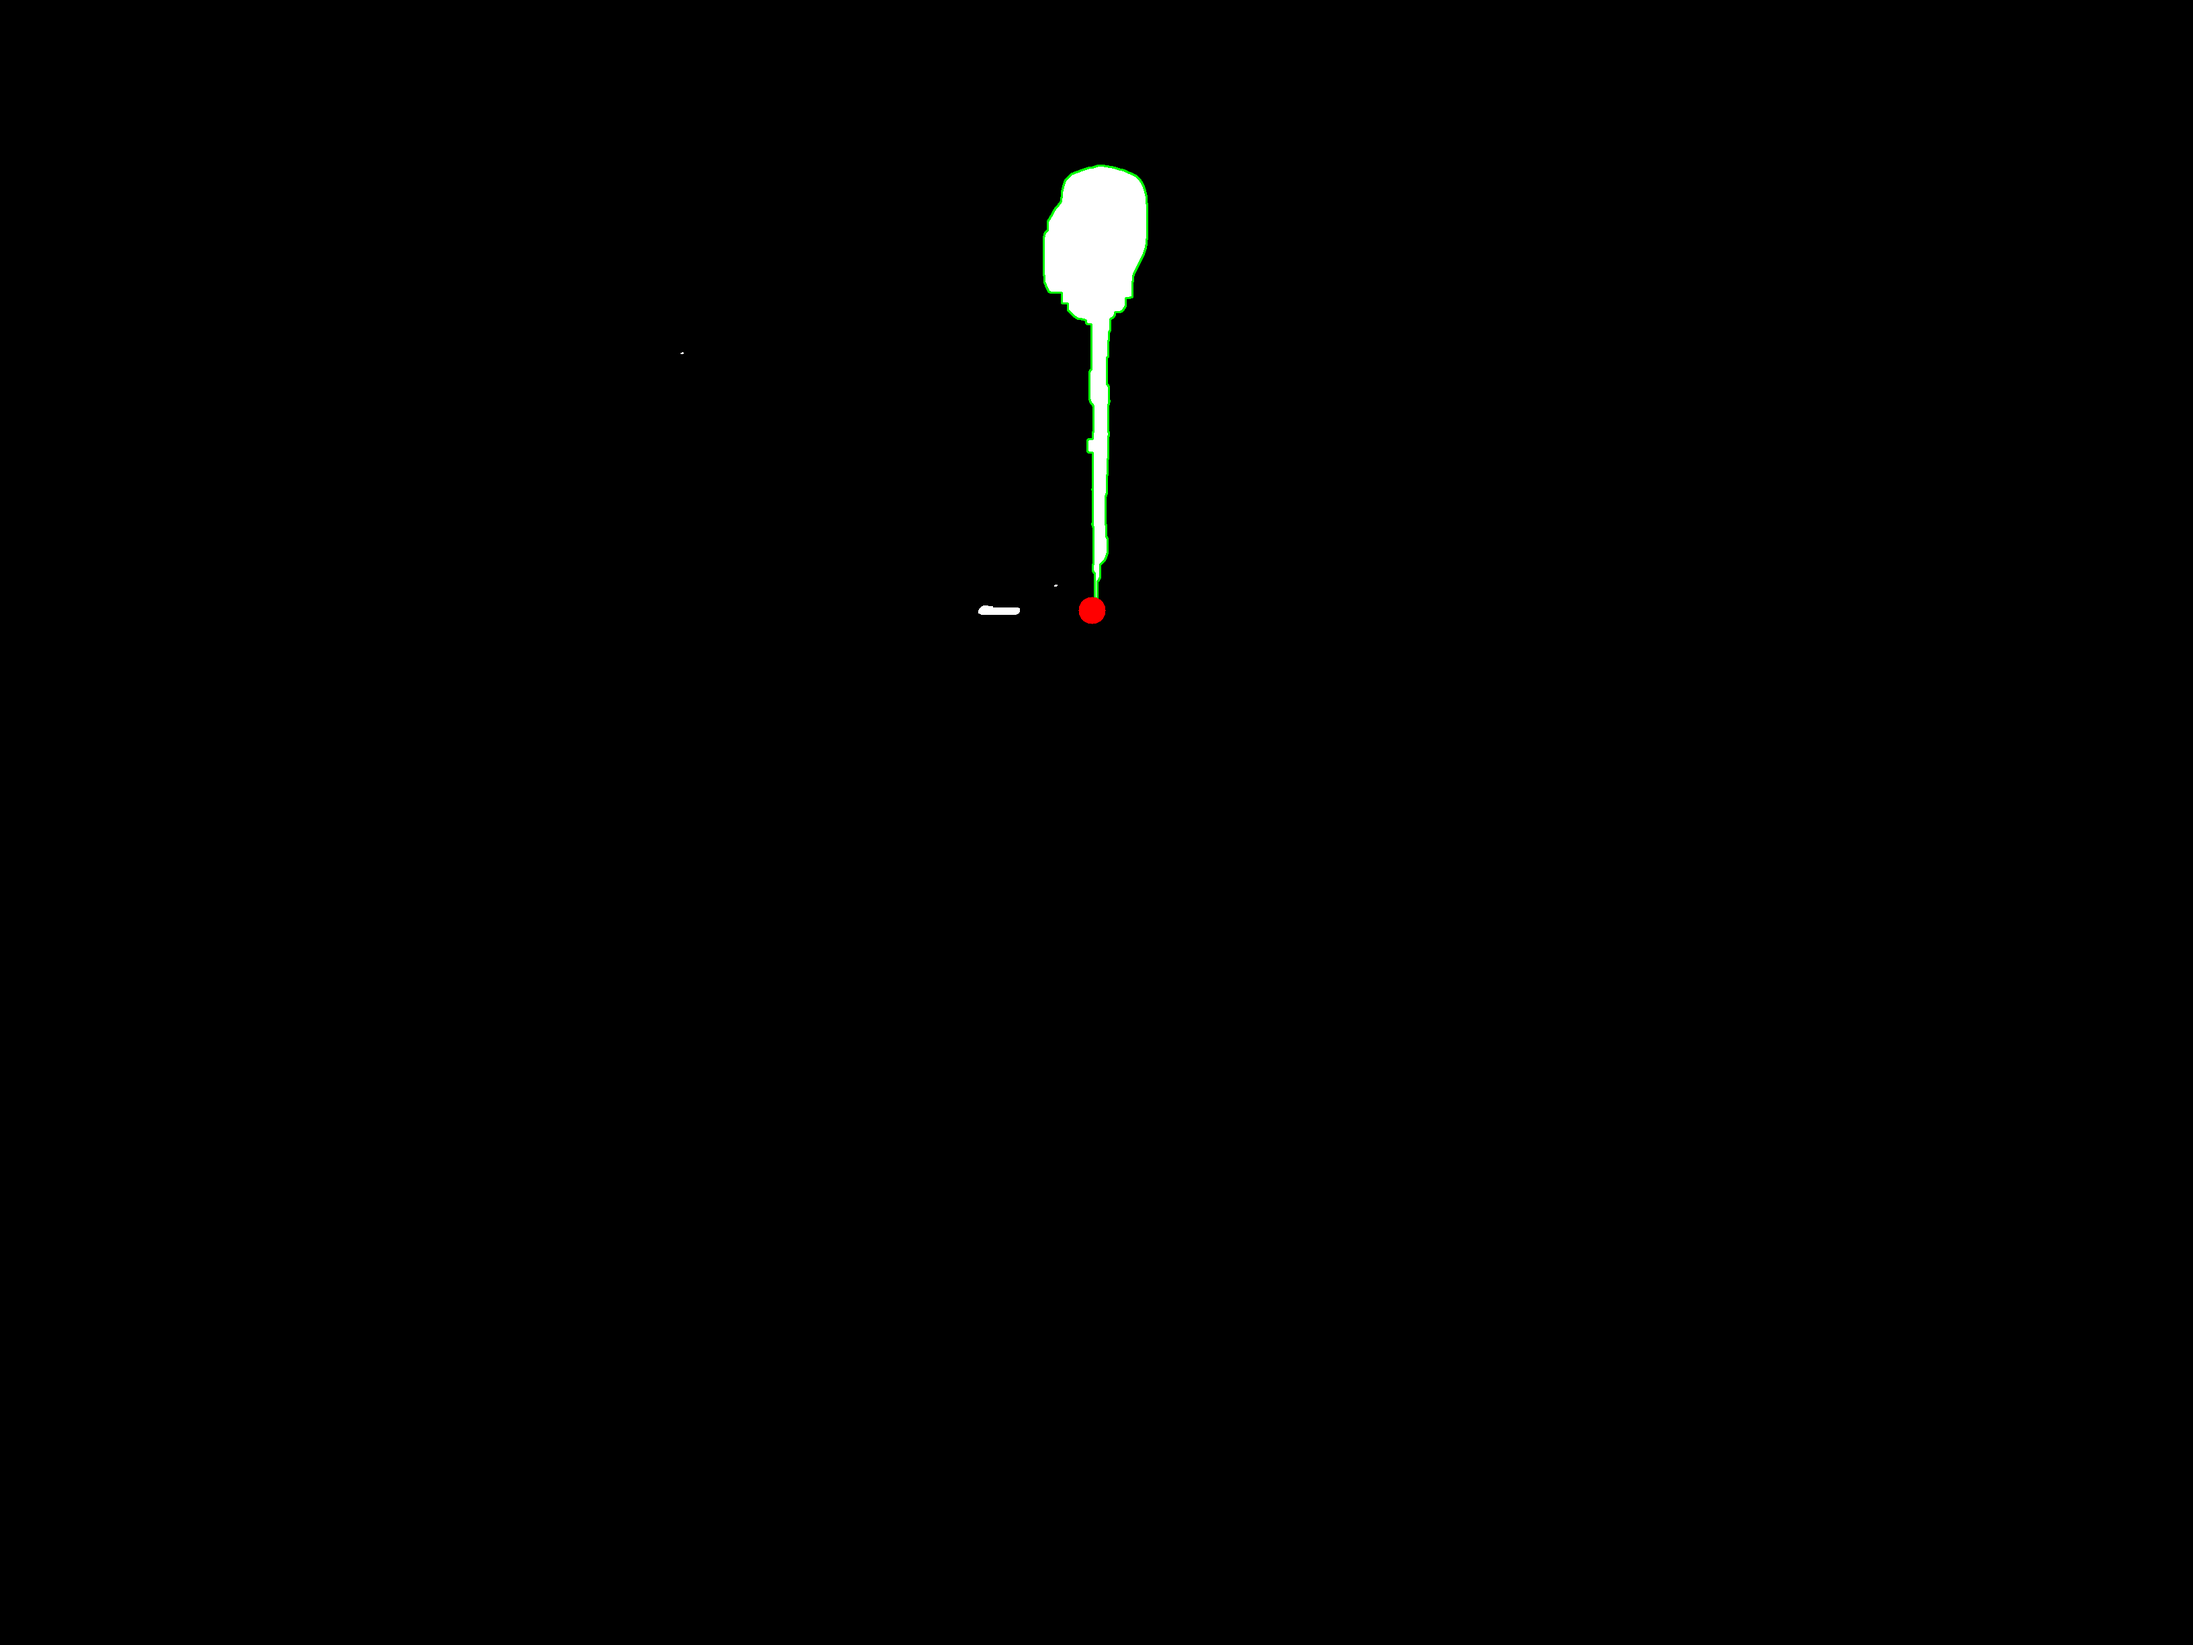
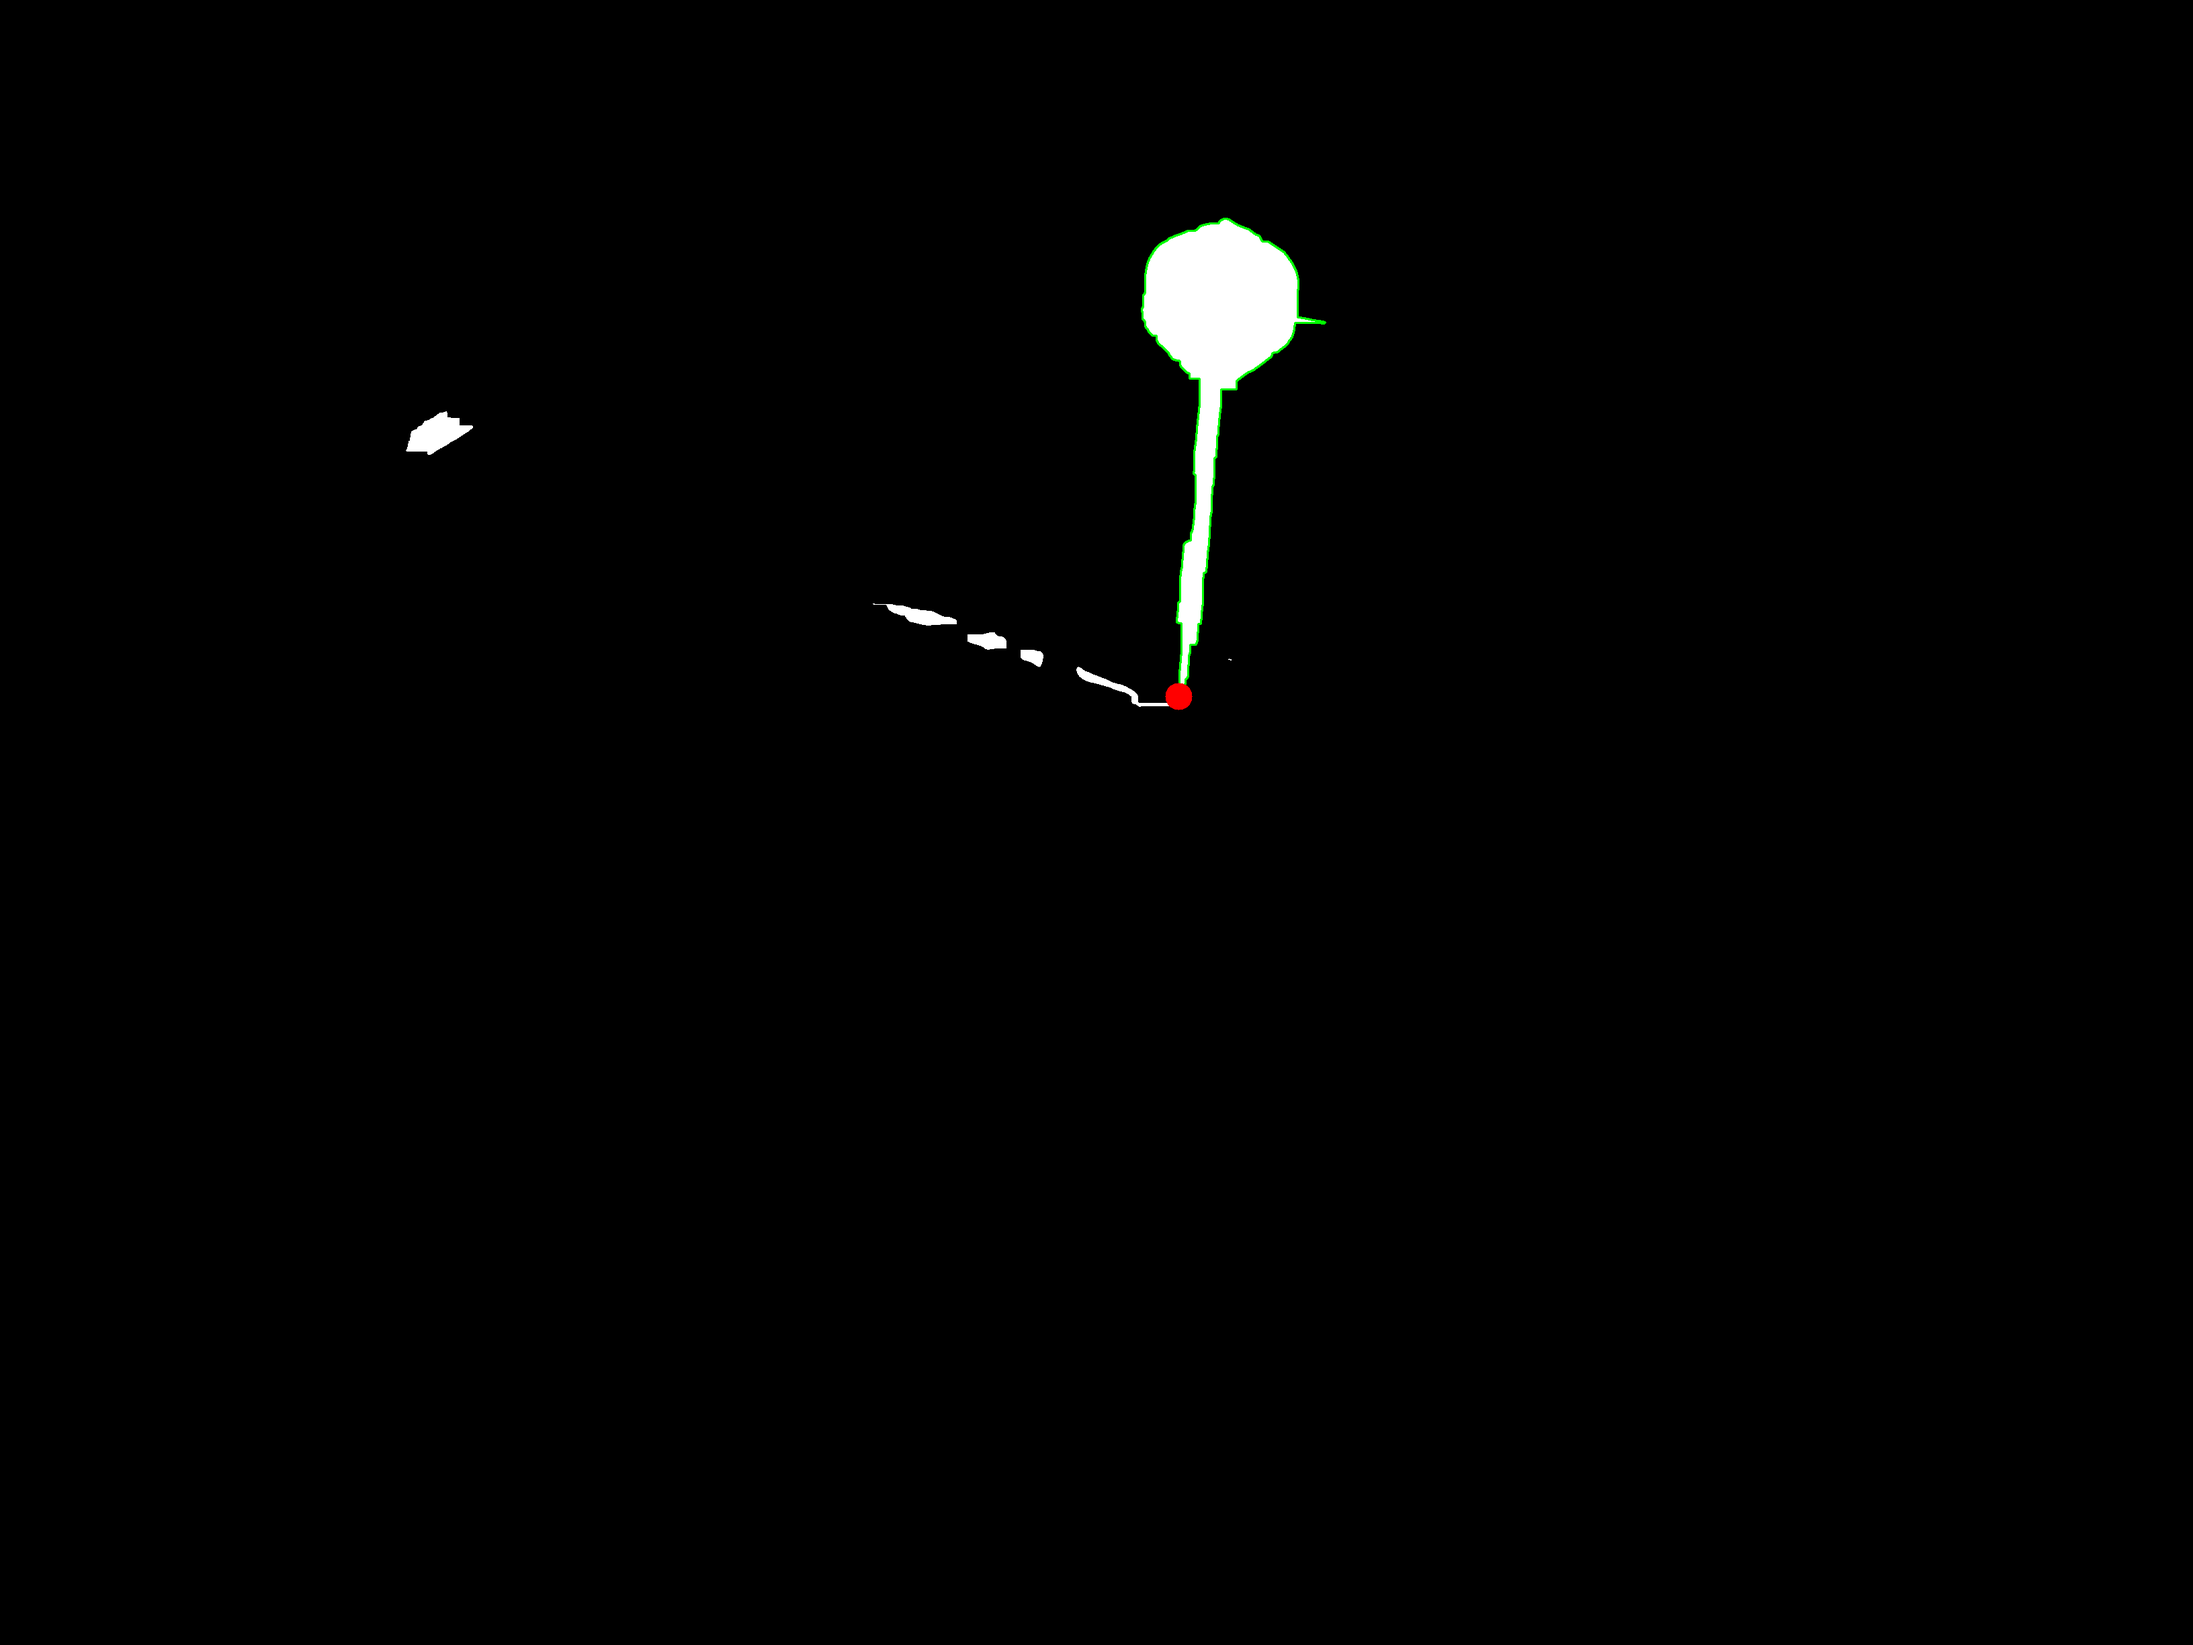
[add]10ケースの検証で正答率40%

diff --git a/src/main/run.py b/src/main/run.py
@@ -1,4 +1,5 @@
 # %%
+import os
 import cv2
 import numpy as np
 from matplotlib import pyplot as plt
@@ -6,148 +7,175 @@ from matplotlib import pyplot as plt
 from get_score import get_score
 from mark_extractor import extract_blue_marks  # ここで別ファイルの関数をインポート
 from diff_detector import detect_dart_diff  # 差分検出用
-from connect_parts import connect_parts # 膨張処理
+from connect_parts import connect_parts  # 膨張処理
 from detect_contour_bottom import detect_contour_bottom
 
-'''
+"""
+0.入力画像パスの設定
+"""
+INIT_PATH = "./img/input/init/init.png"
+DART_PATH = "./img/input/darts/t13.png"
+OUTPUT_DIR = "./img/output/t13/"
+
+"""
 1.セットアップ処理
 4点のマークから射影変換行列を取得する
-'''
+"""
 # 画像の読み込み
-image_path = "./img/input/init/marktuki.png"  # 読み込むPNG画像のパス
+image_path = INIT_PATH
 init_image = cv2.imread(image_path)
 
-# 青いマークの座標を取得（上右下左の順)
-sorted_marks = extract_blue_marks(image_path)  # 別ファイルの関数を使って座標を取得
-# 変換後の座標（上右下左に対応）
+# 青いマークの座標を取得（上右下左の順)※blue_extracted_imageはデバッグ用
+sorted_marks, blue_extracted_image = extract_blue_marks(image_path)
+
+# 変換後の座標（上右下左の順）
 output_points = np.array([[250, 0], [500, 250], [250, 500], [0, 250]], dtype="float32")
 
 # 射影変換行列を取得
-matrix = cv2.getPerspectiveTransform(np.array(sorted_marks, dtype="float32"), output_points)
+matrix = cv2.getPerspectiveTransform(
+    np.array(sorted_marks, dtype="float32"), output_points
+)
 
 # 射影変換を適用して、500x500の画像に変換
 output_size = (500, 500)
 warped_image = cv2.warpPerspective(init_image, matrix, output_size)
 
-'''
-1の検証コード
-'''
-# 結果の保存
-output_path = "./img/output/warped_image.png"
-cv2.imwrite(output_path, warped_image)
+# warped_imageのコピーを作成して、直接更新しないようにする
+warped_image_copy = warped_image.copy()
 
-# 結果の表示
-plt.figure(figsize=(6, 6))
-plt.imshow(cv2.cvtColor(warped_image, cv2.COLOR_BGR2RGB))
-plt.title("Warped Image (500x500)")
-plt.axis("off")
-plt.show()
-'''
-1の検証コード 終わり
-'''
-
-'''
+"""
 2.ダーツ検出
 前後画像の差分からダーツオブジェクトを検出する
-'''
-image_path = "./img/input/darts/bull_point.png"
+"""
+image_path = DART_PATH
 dart_image = cv2.imread(image_path)
 
 diff_image = detect_dart_diff(init_image, dart_image)
 
-'''
-2の検証コード
-'''
-# 差分画像を保存
-output_path = "./img/output/diff_image.png"
-cv2.imwrite(output_path, diff_image)
-
-# 差分画像の表示
-plt.figure(figsize=(6, 6))
-plt.imshow(diff_image, cmap='gray')
-plt.title("Difference (Binary)")
-plt.axis("off")
-plt.show()
-'''
-2の検証コード 終わり
-'''
-
-'''
+"""
 3.ダーツが刺さった座標を特定する
 差分画像のうちダーツオブジェクトを検出して刺さった座標を検出する
-'''
+"""
 # 途切れた物体を接続する
-connected_image = connect_parts(diff_image, kernel_size=(20, 20), iterations=2)
+connected_image = connect_parts(diff_image, kernel_size=(24, 24), iterations=2)
 
 # 一定以上の大きさのオブジェクトを検出し、その最下部の座標を取得
-min_area = 5000  # 最小面積の閾値を設定
+min_area = 10000  # 最小面積の閾値を設定
 detected_image, bottom_coords = detect_contour_bottom(connected_image, min_area)
 
-'''
-3の検証コード
-'''
-# 差分画像を保存
-output_path = "./img/output/connected_image.png"
-cv2.imwrite(output_path, connected_image)
-
-# 差分画像の表示
-plt.figure(figsize=(6, 6))
-plt.imshow(connected_image, cmap='gray')
-plt.title("Connected (Binary)")
-plt.axis("off")
-plt.show()
-
-# ダーツオブジェクト検出画像を保存
-output_path = "./img/output/detected_dart_image.png"
-cv2.imwrite(output_path, detected_image)
-# ダーツオブジェクト検出画像の表示
-plt.figure(figsize=(6, 6))
-plt.imshow(detected_image, cmap='gray')
-plt.title("Dart (Binary)")
-plt.axis("off")
-plt.show()
-'''
-3の検証コード 終わり
-'''
-
-'''
+"""
 4.ダーツの刺さった座標を射影変換して青い点を描画する
-'''
+"""
 # bottom_coordsを射影変換
 for i, bottom in enumerate(bottom_coords):
     # 座標をリスト形式にしてから射影変換を適用
-    src_point = np.array([[bottom]], dtype='float32')  # 1x2の座標を射影変換
+    src_point = np.array([[bottom]], dtype="float32")  # 1x2の座標を射影変換
     dst_point = cv2.perspectiveTransform(src_point, matrix)
 
     # 変換後の座標を整数に変換
     x, y = int(dst_point[0][0][0]), int(dst_point[0][0][1])
 
-    print(x,y)
     # 青い点を描画
-    cv2.circle(warped_image, (x, y), 4, (0, 255, 0), -1)
+    cv2.circle(warped_image_copy, (x, y), 4, (0, 255, 0), -1)
 
-# 青い点が描画された結果の保存と表示
-output_path = "./img/output/warped_image_with_dart.png"
-cv2.imwrite(output_path, warped_image)
-
-plt.figure(figsize=(6, 6))
-plt.imshow(cv2.cvtColor(warped_image, cv2.COLOR_BGR2RGB))
-# X軸とY軸にメモリを設定
-plt.xticks(np.arange(0, warped_image.shape[1], step=10))  # 50ピクセルごとにX軸のメモリ
-plt.yticks(np.arange(0, warped_image.shape[0], step=10))  # 50ピクセルごとにY軸のメモリ
-plt.title("Warped Image with Dart Locations")
-plt.axis("on")
-plt.grid(True)
-plt.show()
-'''
-4の検証コード 終わり
-'''
-
-'''
+"""
 5.(x,y)から得点計算
-'''
+"""
 # 座標 (x, y) を入力して得点を計算
 score = get_score(x, y)
 print(f"Dart at ({x}, {y}) scores: {score} points")
+# %%
+
+# 以下検証コード
+"""
+1の検証コード
+"""
+plt.figure(figsize=(12, 6))
+# 初期画像の表示（BGRからRGBに変換して表示）
+plt.subplot(1, 3, 1)
+plt.imshow(cv2.cvtColor(init_image, cv2.COLOR_BGR2RGB))  # BGRからRGBへ変換
+plt.title("initial image")
+plt.axis("off")
+# 青抽出結果の表示
+plt.subplot(1, 3, 2)
+plt.imshow(cv2.cvtColor(cv2.cvtColor(blue_extracted_image, cv2.COLOR_HSV2BGR), cv2.COLOR_BGR2RGB))
+plt.title("Blue Extracted")
+# 射影変換の確認
+plt.subplot(1, 3, 3)
+plt.imshow(cv2.cvtColor(warped_image, cv2.COLOR_BGR2RGB))  # BGRからRGBへ変換
+plt.title("projective transformation (500x500)")
+plt.axis("off")
+"""
+2の検証コード
+"""
+plt.figure(figsize=(12, 6))
+# 初期画像の表示（BGRからRGBに変換して表示）
+plt.subplot(1, 3, 1)
+plt.imshow(cv2.cvtColor(init_image, cv2.COLOR_BGR2RGB))  # BGRからRGBへ変換
+plt.title("initial image")
+plt.axis("off")
+# ダーツ画像の表示（BGRからRGBに変換して表示）
+plt.subplot(1, 3, 2)
+plt.imshow(cv2.cvtColor(dart_image, cv2.COLOR_BGR2RGB))  # BGRからRGBへ変換
+plt.title("darts image")
+plt.axis("off")
+# 差分画像の表示（グレースケールなのでcmap='gray'を使用）
+plt.subplot(1, 3, 3)
+plt.imshow(diff_image, cmap="gray")
+plt.title("diff image (Binary)")
+plt.axis("off")
+"""
+3の検証コード
+"""
+plt.figure(figsize=(12, 6))
+# 差分画像の表示（グレースケールなのでcmap='gray'を使用）
+plt.subplot(1, 2, 1)
+plt.imshow(connected_image, cmap="gray")
+plt.title("connected image (Binary)")
+plt.axis("off")
+# ダーツオブジェクト検出画像の表示（グレースケール）
+plt.subplot(1, 2, 2)
+plt.imshow(detected_image, cmap="gray")
+plt.title("detected darts point (Binary)")
+plt.axis("off")
+# 4検証
+plt.figure(figsize=(6, 6))
+plt.imshow(cv2.cvtColor(warped_image_copy, cv2.COLOR_BGR2RGB))  # BGRからRGBへ変換
+# X軸とY軸にメモリを設定
+plt.xticks(np.arange(0, warped_image.shape[1], step=50))
+plt.yticks(np.arange(0, warped_image.shape[0], step=50))
+plt.title("mapping darts point")
+plt.axis("on")
+
+plt.show()
+
+# 座標 (x, y) を入力して得点を計算
+score = get_score(x, y)
+print(f"Dart at ({x}, {y}) scores: {score} points")
+
+# %%
+# 以下保存系のコード
+
+# ディレクトリが存在しない場合は作成
+os.makedirs(OUTPUT_DIR, exist_ok=True)
+
+# 4点抽出結果を保存
+output_path = os.path.join(OUTPUT_DIR, "detect_blue_point.png")
+cv2.imwrite(output_path, blue_extracted_image)
+# 射影変換結果を保存
+output_path = os.path.join(OUTPUT_DIR, "projective_transformation.png")
+cv2.imwrite(output_path, warped_image)
+# 差分画像を保存
+output_path = os.path.join(OUTPUT_DIR, "diff_image.png")
+cv2.imwrite(output_path, diff_image)
+# 膨張画像を保存
+output_path = os.path.join(OUTPUT_DIR, "connected_image.png")
+cv2.imwrite(output_path, connected_image)
+# ダーツオブジェクト検出画像を保存
+output_path = os.path.join(OUTPUT_DIR, "detected_dart_image.png")
+cv2.imwrite(output_path, detected_image)
+# 青い点が描画された結果の保存
+output_path = os.path.join(OUTPUT_DIR, "warped_image_with_dart.png")
+cv2.imwrite(output_path, warped_image_copy)
 
 # %%

diff --git a/src/level6.5_マークの抽出/run.py b/src/level6.5_マークの抽出/run.py
@@ -4,7 +4,8 @@ import numpy as np
 from matplotlib import pyplot as plt
 
 # 画像の読み込み
-image_path = "./img/marktuki.png"  # 読み込むPNG画像のパス
+# image_path = "./img/marktuki.png"  # 読み込むPNG画像のパス
+image_path = "./img/init.png"  # 読み込むPNG画像のパス
 image = cv2.imread(image_path)
 
 # 画像をBGRからHSVに変換
@@ -25,7 +26,7 @@ def extract_color_range(image_hsv, lower_color, upper_color, background_hsv=[0, 
     return result_with_bg
 
 # 青の範囲（HSV空間）
-lower_blue = np.array([90, 100, 100])
+lower_blue = np.array([100, 100, 100])
 upper_blue = np.array([125, 255, 255])
 
 # 青を抽出
@@ -67,7 +68,7 @@ bottom_marks = sorted(blue_mark_centers[2:], key=lambda p: p[0], reverse=True)  
 sorted_marks = [top_marks[0], top_marks[1], bottom_marks[0], bottom_marks[1]]
 
 # 結果の保存
-output_path = "./img/output/mark_image.png"
+output_path = "./img/output/mark_image2.png"
 cv2.imwrite(output_path, image)
 
 # 結果の表示

diff --git a/src/main/mark_extractor.py b/src/main/mark_extractor.py
@@ -1,6 +1,7 @@
+# %%
 import cv2
 import numpy as np
-
+from matplotlib import pyplot as plt
 
 def extract_blue_marks(image_path):
     # 画像の読み込み
@@ -8,7 +9,7 @@ def extract_blue_marks(image_path):
     image_hsv = cv2.cvtColor(image, cv2.COLOR_BGR2HSV)
 
     # 青の範囲（HSV空間）
-    lower_blue = np.array([90, 100, 100])
+    lower_blue = np.array([100, 100, 100])
     upper_blue = np.array([125, 255, 255])
 
     # 青を抽出
@@ -53,4 +54,6 @@ def extract_blue_marks(image_path):
     )  # 下側2点（X座標で右→左に並べる）
 
     # 上右下左の順にした座標リストを返す
-    return [top_marks[0], top_marks[1], bottom_marks[0], bottom_marks[1]]
+    return [top_marks[0], top_marks[1], bottom_marks[0], bottom_marks[1]], blue_extracted
+
+# %%
